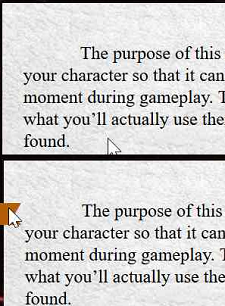
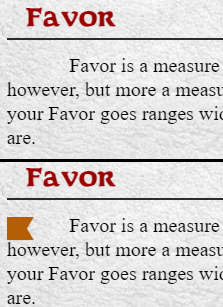
updated book marks

diff --git a/src/app/bookmarking/bm-quick-nav/bm-quick-nav.component.html b/src/app/bookmarking/bm-quick-nav/bm-quick-nav.component.html
@@ -7,13 +7,13 @@
 
   <div *ngIf="bookmarkArray.length > 0">
     <div class="bookmarkShelfHeading">
-      <h3>Ch</h3>
+      <h3> </h3>
       <h3>Body</h3>
       <div></div>
     </div>
     <div class="bookmarksShell">
-      <div *ngFor="let mark of bookmarkArray" class="bookmarkShelf" (click)="goToLink(mark.link, mark.chapter)">
-        <h3>{{mark.chapter}}</h3>
+      <div *ngFor="let mark of bookmarkArray" class="bookmarkShelf" (click)="goToLink(mark.link, mark.chapter, mark.section)">
+        <h3>{{mark.section}}.{{mark.chapter}}</h3>
         <h3>{{mark.body}}</h3>
         <i stopPropagation (click)="deleteBookmark($event, mark.id)" class="fa fa-unlink"></i>
       </div>

diff --git a/src/app/bookmarking/bm-quick-nav/bm-quick-nav.component.ts b/src/app/bookmarking/bm-quick-nav/bm-quick-nav.component.ts
@@ -23,8 +23,13 @@ export class BmQuickNavComponent implements OnInit {
     this.chapterService.getBookmarks().subscribe(result => this.bookmarkArray = result)
   }
 
-  goToLink(route, chapter) {
-    this.router.navigate([`/chapter/${chapter}`], { queryParams: { search: route } })
+  goToLink(route, chapter, section) {
+    if (section === 1) {
+      this.router.navigate([`/rules-reference/${chapter}`], { queryParams: { search: route } })
+    } else {
+      this.router.navigate([`/character-creation/${chapter}`], { queryParams: { search: route } })
+
+    }
   }
 
   deleteBookmark(event, id) {

diff --git a/server/controller.js b/server/controller.js
@@ -36,7 +36,7 @@ module.exports = {
         const db = req.app.get('db')
         db.get.findBookmarks(req.user.id).then(result => {
             let newResult = result.map(val => {
-                return { id: val.id, chapter: val.chapter, body: val.body, link: val.bookmarkcode }
+                return { id: val.id, chapter: val.chapter, body: val.body, link: val.bookmarkcode, section: val.section }
             })
             res.send(newResult)
         })

diff --git a/src/app/chapters/module-components/bm-chapter-icon/bm-chapter-icon.component.css b/src/app/chapters/module-components/bm-chapter-icon/bm-chapter-icon.component.css
@@ -3,7 +3,6 @@ i {
     font-size: 25px;
     position: absolute;
     top: 0;
-    left: -25px;
     transform: rotate(-90deg);
     animation: .6s
 }
